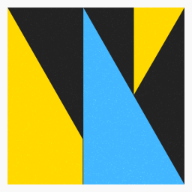
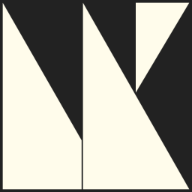
Redesign the site header and refresh branding

diff --git a/theme/static/css/main.css b/theme/static/css/main.css
@@ -24,13 +24,14 @@
   flex-direction: column;
   justify-content: center;
   margin: 0 auto;
+  padding: 0 var(--content-padding);
   max-width: var(--content-max-width);
 }
 
 .site-header__content__title {
   display: flex;
   flex-direction: row;
-  justify-content: center;
+  align-items: end;
   margin-top: var(--spacing-m);
 }
 
@@ -39,30 +40,41 @@
   filter: grayscale(100%);
 }
 
-.site-header__content__title img {
-  width: auto;
+.site-header__content_home-link {
+  width: var(--logo-size);
+  height: var(--logo-size);
 }
 
 .logo {
   width: var(--logo-size);
   height: var(--logo-size);
-  border: 3px solid var(--color-light);
 }
 
-.mk-title {
-  height: var(--logo-size);
-  padding: 3px 0;
+.site-header__content__title__text {
+  position: relative;
+  display: flex;
+  align-items: end;
+  justify-content: center;
+  flex: 1;
+  margin: 0 var(--logo-size) 0 0;
+  padding: 0;
 }
 
-.site-header__content__title img:first-of-type {
-  margin-right: calc(var(--spacing-s) * 1.5);
+.site-header__content__title__text p {
+  margin: 0;
+  font-size: var(--font-size-h1);
+  font-family: var(--font-family-heading);
+  line-height: var(--font-size-h1);
+  /* The title text has no descenders, so align it exactly to the bottom of the container by hand */
+  position: relative;
+  top: 3px;
 }
 
 .site-header__nav {
   letter-spacing: 0.1rem;
   font-style: italic;
   line-height: 1;
-  margin: var(--spacing-s) var(--content-padding);
+  margin: var(--spacing-s) 0;
   padding: var(--spacing-xs) 0;
   border-top: 1px solid var(--color-bg-box);
   border-bottom: 1px solid var(--color-bg-box);
@@ -392,6 +404,10 @@
 }
 
 @media (max-width: 960px) {
+  :root {
+    --logo-size: 4rem;
+  }
+
   .site-header__nav {
     margin: var(--spacing-s) 0;
   }
@@ -488,12 +504,29 @@
 }
 
 @media (max-width: 420px) {
-  :root {
-    --logo-size: 5rem;
-  }
-
   .site-header__content {
     margin: 0 auto;
+  }
+
+  .site-header__content__title {
+    justify-content: space-between;
+    gap: 1rem;
+    margin-top: var(--spacing-m);
+  }
+
+  .site-header__content__title__text {
+    margin: 0;
+    padding: 0;
+    font-size: var(--font-size-h2);
+    text-align: initial;
+    flex: none;
+  }
+
+  .site-header__content__title__text p {
+    font-size: var(--font-size-h2);
+    line-height: var(--font-size-h2);
+    /* The title text has no descenders, so align it exactly to the bottom of the container by hand */
+    top: 2px;
   }
 
   .site-footer__content {

diff --git a/theme/templates/base.html b/theme/templates/base.html
@@ -39,6 +39,9 @@
   <link rel="preload" href="/css/main.css" as="style">
   <link rel="stylesheet" href="/css/main.css">
   <link rel="stylesheet" href="/css/print.css" media="print" />
+  <link rel="preconnect" href="https://fonts.googleapis.com">
+  <link rel="preconnect" href="https://fonts.gstatic.com" crossorigin>
+  <link href="https://fonts.googleapis.com/css2?family=Quicksand:wght@500&display=swap" rel="stylesheet">
 
   {% if FEED_ALL_ATOM %}
   <link href="{{ FEED_DOMAIN }}/{% if FEED_ALL_ATOM_URL %}{{ FEED_ALL_ATOM_URL }}{% else %}{{ FEED_ALL_ATOM }}{% endif %}" type="application/atom+xml" rel="alternate" title="{{ SITENAME }} Full Atom Feed" />
@@ -72,18 +75,14 @@
   <div class="wrapper">
     <header class="site-header">
       <div class="site-header__content">
-        <a href="{{ SITEURL }}/" title="Navigate to home" class="site-header__content__title">
-          <img
-              class="logo"
-              src="/graphics/monogram.png"
-              alt="Matias Klemola monogram"
-          />
-          <img
-              class="mk-title"
-              src="/graphics/mktitle.png"
-              alt="Matias Klemola"
-          />
-        </a>
+        <div class="site-header__content__title">
+          <a href="{{ SITEURL }}/" class="site-header__content_home-link" title="Navigate to home">
+            <img class="logo" src="/graphics/monogram.svg" alt="Matias Klemola monogram" />
+          </a>
+          <div class="site-header__content__title__text">
+            <p>matias klemola</p>
+          </div>
+        </div>
         <nav class="site-header__nav">
           <ul class="site-header__nav__links list--unstyled">
           {% for title, link, p_name in MENUITEMS %}

diff --git a/theme/static/css/variables.css b/theme/static/css/variables.css
@@ -2,7 +2,7 @@
   /* Colors */
   --color-dark: #222;
   --color-dark-alternative: #111;
-  --color-light: #f9f9f9;
+  --color-light: #fffceb;
   --color-light-alternative: #a8c1db;
   --color-neutral: #666;
   --color-primary: #ffd800;
@@ -29,7 +29,7 @@
   /* Text */
   --default-font: 'HelveticaNeue', 'Helvetica Neue', 'Helvetica', 'TeXGyreHerosRegular', 'Tahoma',
     'Geneva', 'Arial', sans-serif;
-  --font-family-heading: var(--default-font);
+  --font-family-heading: 'Quicksand', 'sans-serif';
   --font-family-body: var(--default-font);
   --font-family-monospace: 'Consolas', 'Monaco', monospace;
   --font-size-text-small: 0.8125rem;
@@ -60,7 +60,7 @@
   --spacing-m: 2rem;
   --spacing-l: 3rem;
   --border-radius: 4px;
-  --logo-size: 6rem;
+  --logo-size: 5rem;
   --content-max-width: 48em;
   --content-padding: var(--spacing-s);
 }
